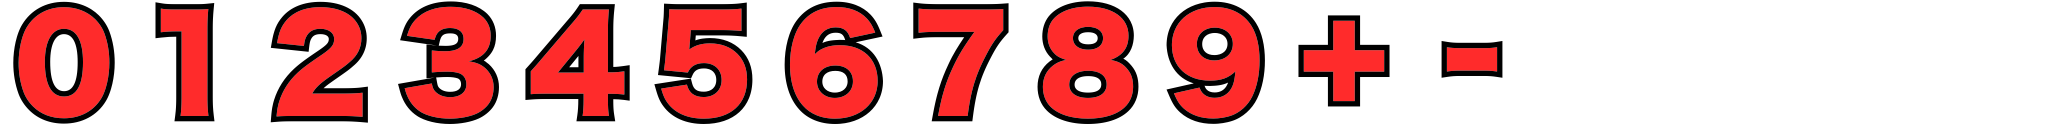
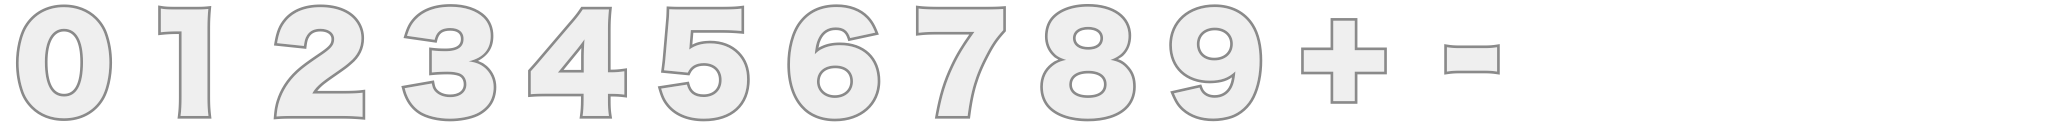
ダメージ数字の色を戻した

diff --git a/src/js/game-object/damage-indicator/view/player-damage-indicator-view.js b/src/js/game-object/damage-indicator/view/player-damage-indicator-view.js
@@ -16,12 +16,10 @@ import {
 export const MESH_SIZE = 40;
 export const MAX_NUMBER_SIZE = 4;
 export const MAX_ANIMATION = 16;
-export const MINUS_SIGN_FRAME = 11 / MAX_ANIMATION;
 
 /** プレイヤーのダメージインジケータビュー */
 export class PlayerDamageIndicatorView implements DamageIndicatorView {
   _group: THREE.Group;
-  _sign: HorizontalAnimationMesh;
   _numbers: HorizontalAnimationMesh[];
 
   constructor(resources: Resources) {
@@ -29,14 +27,6 @@ export class PlayerDamageIndicatorView implements DamageIndicatorView {
 
     const damageNumberResource = resources.textures.find(v => v.id === TEXTURE_IDS.DAMAGE_NUMBER);
     const damageNumber: THREE.Texture = damageNumberResource ? damageNumberResource.texture : new THREE.Texture();
-
-    this._sign = new HorizontalAnimationMesh({
-      texture: damageNumber,
-      maxAnimation: MAX_ANIMATION,
-      width: MESH_SIZE,
-      height: MESH_SIZE,
-    });
-    this._group.add(this._sign.getObject3D());
 
     this._numbers = R.times(v =>
       new HorizontalAnimationMesh({
@@ -53,7 +43,6 @@ export class PlayerDamageIndicatorView implements DamageIndicatorView {
 
   /** デストラクタ */
   destructor(): void {
-    this._sign.destructor();
     this._numbers.forEach(v => {
       v.destructor();
     });
@@ -64,10 +53,6 @@ export class PlayerDamageIndicatorView implements DamageIndicatorView {
     const values: number[] = String(model.damage)
       .split('')
       .map(v => Number(v));
-
-    this._sign.setOpacity(model.opacity);
-    this._sign.animate(MINUS_SIGN_FRAME);
-    this._sign.getObject3D().position.x = MESH_SIZE * (1/3 -values.length/2);
     this._numbers.forEach((mesh, meshIndex) => {
       mesh.setOpacity(0);
       values
